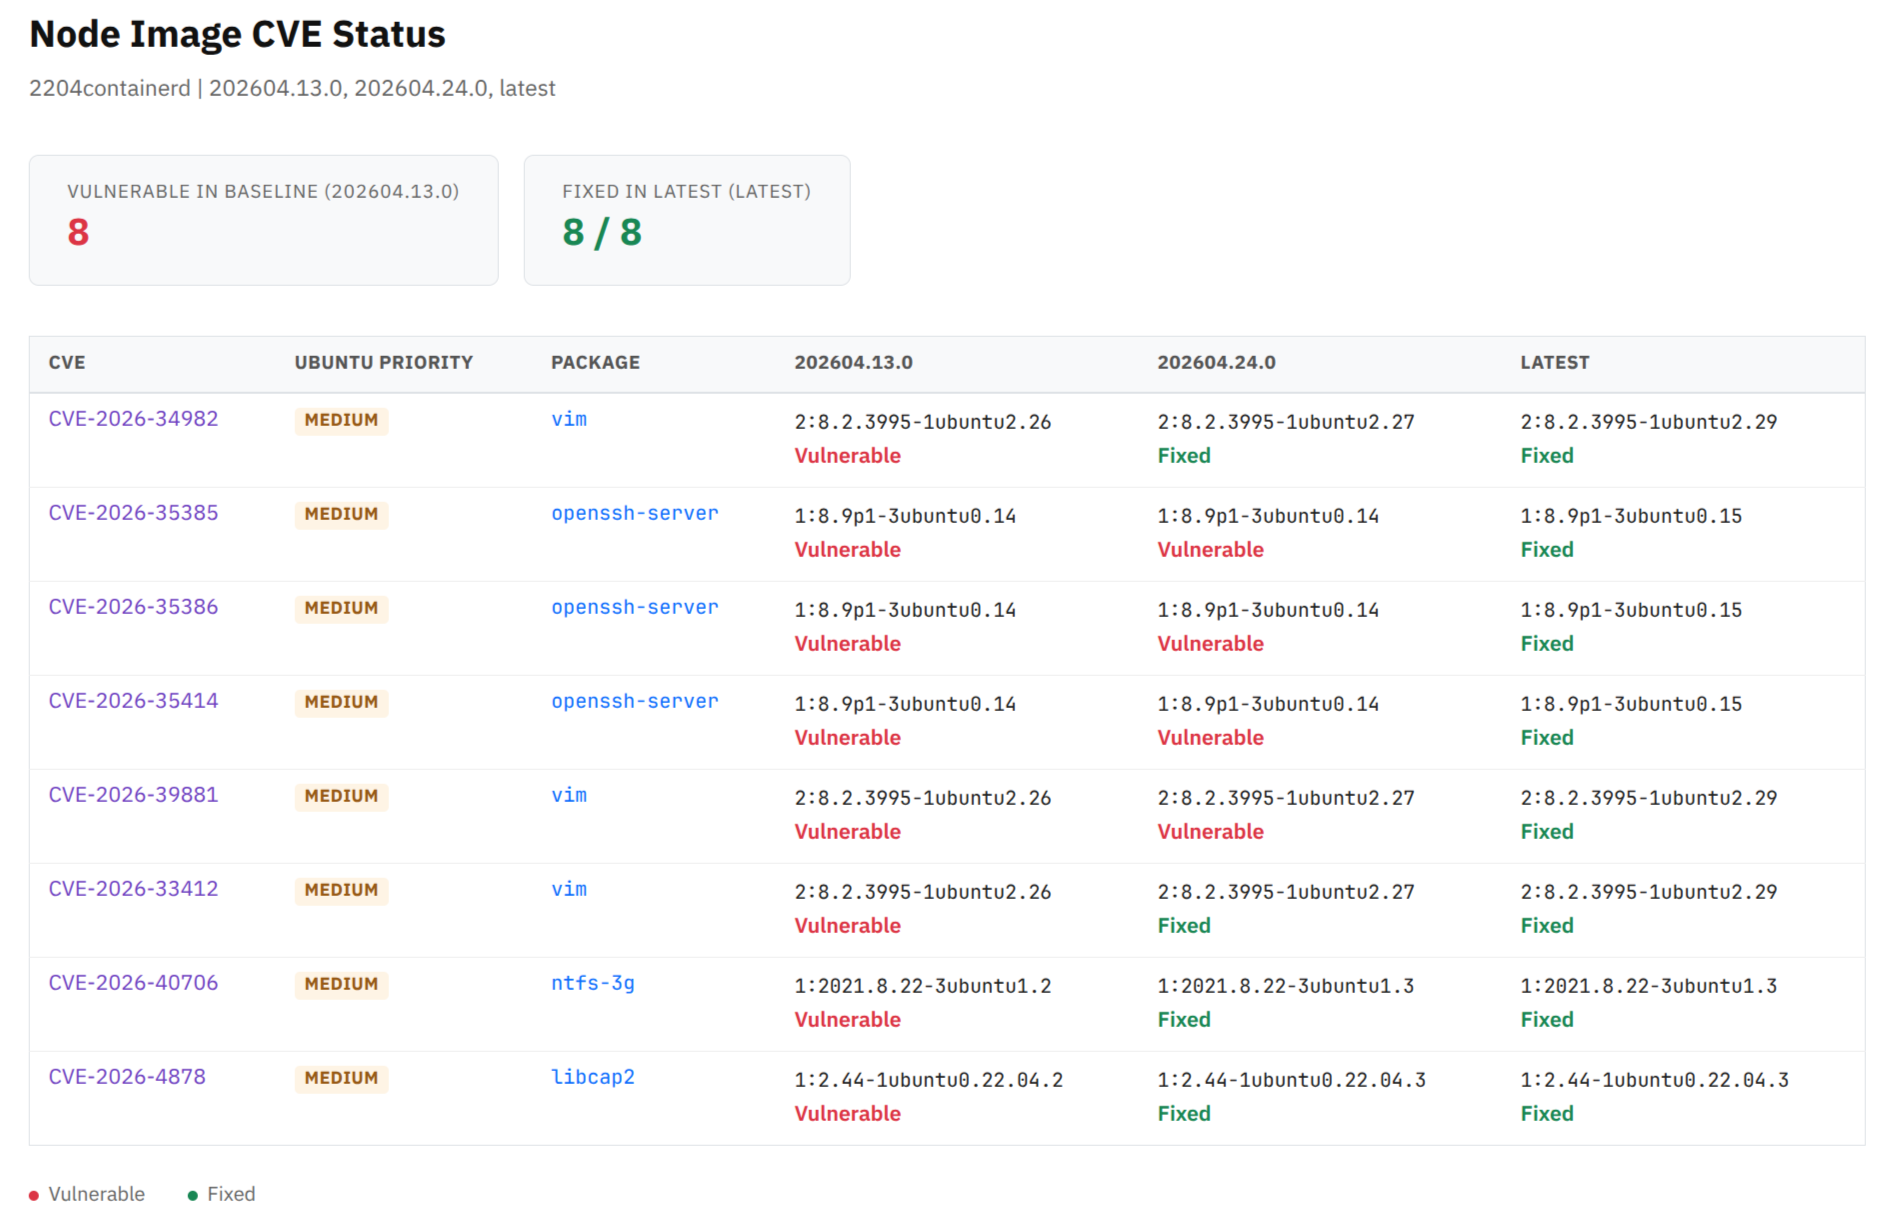
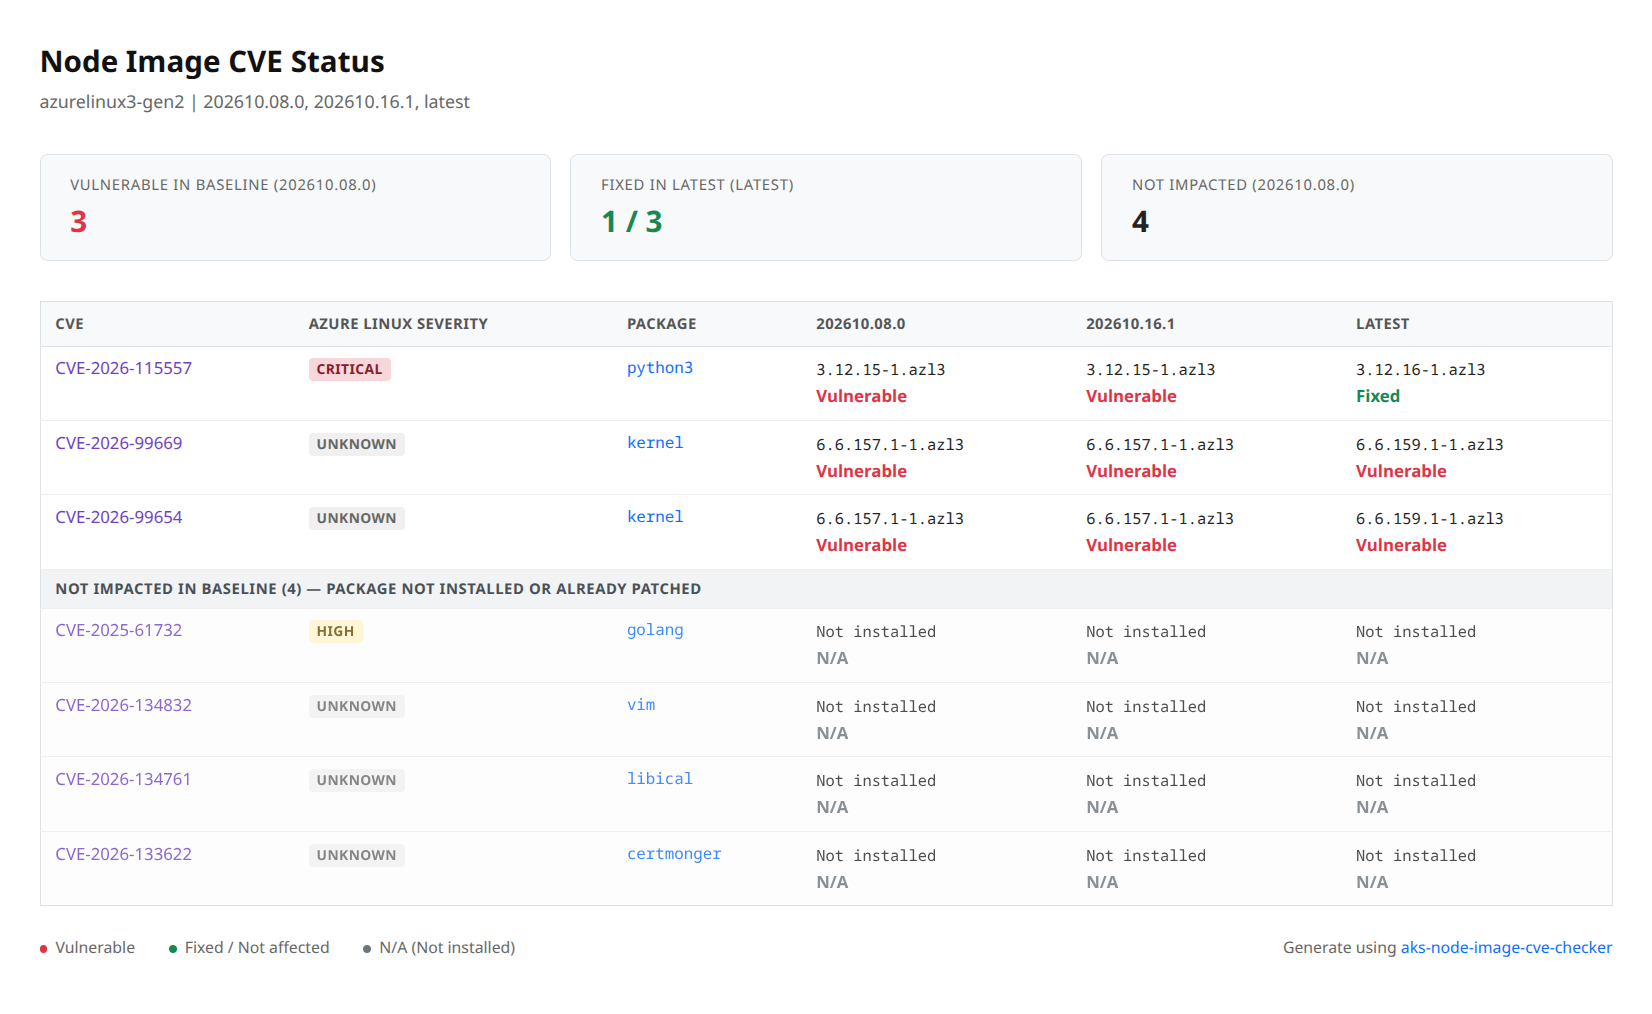
style(cve-checker): polish HTML report layout, attribution link, and screenshot

diff --git a/aks-node-image-cve-checker/aks-node-image-cve-checker.py b/aks-node-image-cve-checker/aks-node-image-cve-checker.py
@@ -1126,7 +1126,7 @@ def _generate_compare_html(
         h1 {{ color: #111; margin-bottom: 0.5rem; font-size: 1.5rem; }}
         .subtitle {{ color: #666; margin-bottom: 2rem; font-size: 0.9rem; }}
         .summary {{ display: flex; gap: 1rem; margin-bottom: 2rem; flex-wrap: wrap; }}
-        .summary-card {{ background: #f8f9fa; border-radius: 8px; padding: 1rem 1.5rem; border: 1px solid #dee2e6; }}
+        .summary-card {{ flex: 1 1 200px; background: #f8f9fa; border-radius: 8px; padding: 1rem 1.5rem; border: 1px solid #dee2e6; }}
         .summary-card .label {{ font-size: 0.75rem; color: #666; text-transform: uppercase; letter-spacing: 0.05em; }}
         .summary-card .value {{ font-size: 1.5rem; font-weight: 700; margin-top: 0.25rem; }}
         .summary-card .value.red {{ color: #dc3545; }}
@@ -1152,11 +1152,13 @@ def _generate_compare_html(
         .severity-high {{ background: #fff3cd; color: #664d03; }}
         .severity-medium {{ background: #fef4e5; color: #975a16; }}
         .severity-low {{ background: #f0f0f0; color: #666; }}
-        .legend {{ margin-top: 1.5rem; font-size: 0.8rem; color: #666; }}
-        .legend span {{ margin-right: 1.5rem; }}
+        .legend {{ display: flex; justify-content: space-between; align-items: center; gap: 1rem; flex-wrap: wrap; margin-top: 1.5rem; font-size: 0.8rem; color: #666; }}
+        .legend-items span {{ margin-right: 1.5rem; }}
         .legend .dot {{ display: inline-block; width: 8px; height: 8px; border-radius: 50%; margin-right: 4px; vertical-align: middle; }}
         .dot-red {{ background: #dc3545; }}
         .dot-green {{ background: #198754; }}
+        .legend a {{ color: #0d6efd; text-decoration: none; }}
+        .legend a:hover {{ text-decoration: underline; }}
     </style>
 </head>
 <body>
@@ -1193,9 +1195,12 @@ def _generate_compare_html(
     </table>
 
     <div class="legend">
-        <span><span class="dot dot-red"></span> Vulnerable</span>
-        <span><span class="dot dot-green"></span> Fixed / Not affected</span>
-        <span><span class="dot" style="background:#6c757d"></span> N/A (Not installed)</span>
+        <div class="legend-items">
+            <span><span class="dot dot-red"></span> Vulnerable</span>
+            <span><span class="dot dot-green"></span> Fixed / Not affected</span>
+            <span><span class="dot" style="background:#6c757d"></span> N/A (Not installed)</span>
+        </div>
+        <span>Generate using <a href="https://github.com/m8yng/aks-troubleshooters/tree/main/aks-node-image-cve-checker" target="_blank" rel="noopener noreferrer">aks-node-image-cve-checker</a></span>
     </div>
 </body>
 </html>"""
